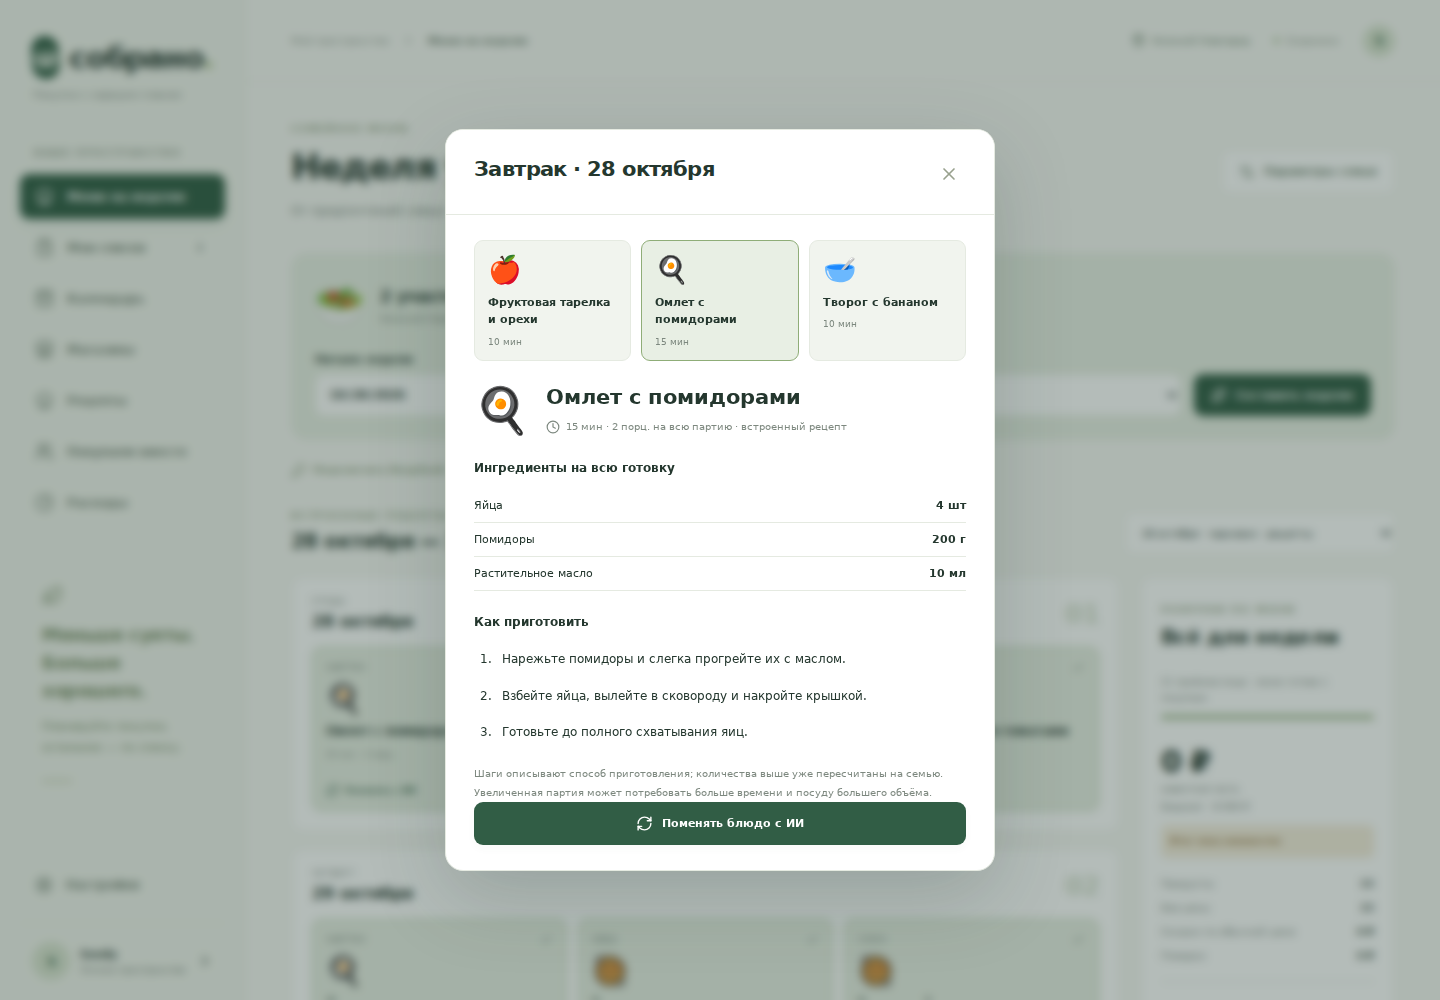
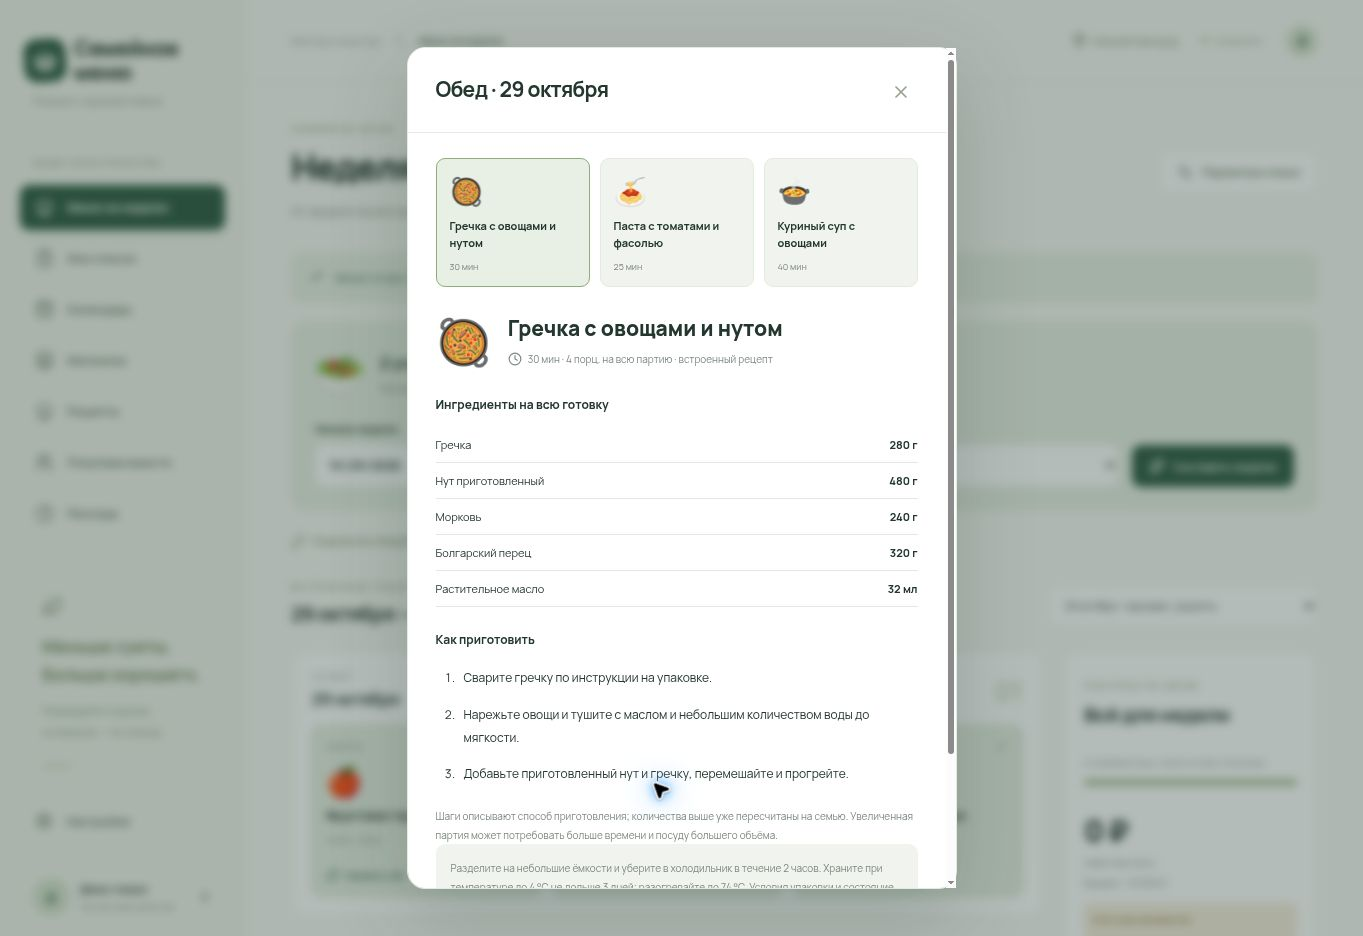
Refresh actual Russian-branded demo screenshots and GIF

diff --git a/README.md b/README.md
@@ -7,9 +7,9 @@
 
 ## Демонстрация для жюри
 
-Название в приложении — **«Семейное меню»**, репозиторий — `family_menu`. Ниже сохранены реальные снимки интерфейса до переименования: на них видно прежнее название «Собрано». Функции на снимках не изменялись при смене названия.
+Название в приложении — **«Семейное меню»**, репозиторий — `family_menu`.
 
-Реальный интерфейс приложения на локальной тестовой базе, только вымышленная семья и встроенные рецепты. Платные запросы не выполнялись. Цены магазинов не подменялись демонстрационными: отсутствующие цены остаются неизвестными. Снимки от 28.10.2026.
+Реальный интерфейс приложения на локальной тестовой базе, только вымышленная семья и встроенные рецепты. Платные запросы не выполнялись. Цены магазинов не подменялись демонстрационными: отсутствующие цены остаются неизвестными. Снимки обновлены 29.10.2026: актуальный интерфейс «Семейное меню», 2 вымышленных взрослых, 21 приём пищи и 17 продуктов без подтверждённой цены.
 
 ![Короткий обзор реальных экранов на синтетических данных](docs/screenshots/walkthrough.gif)
 
